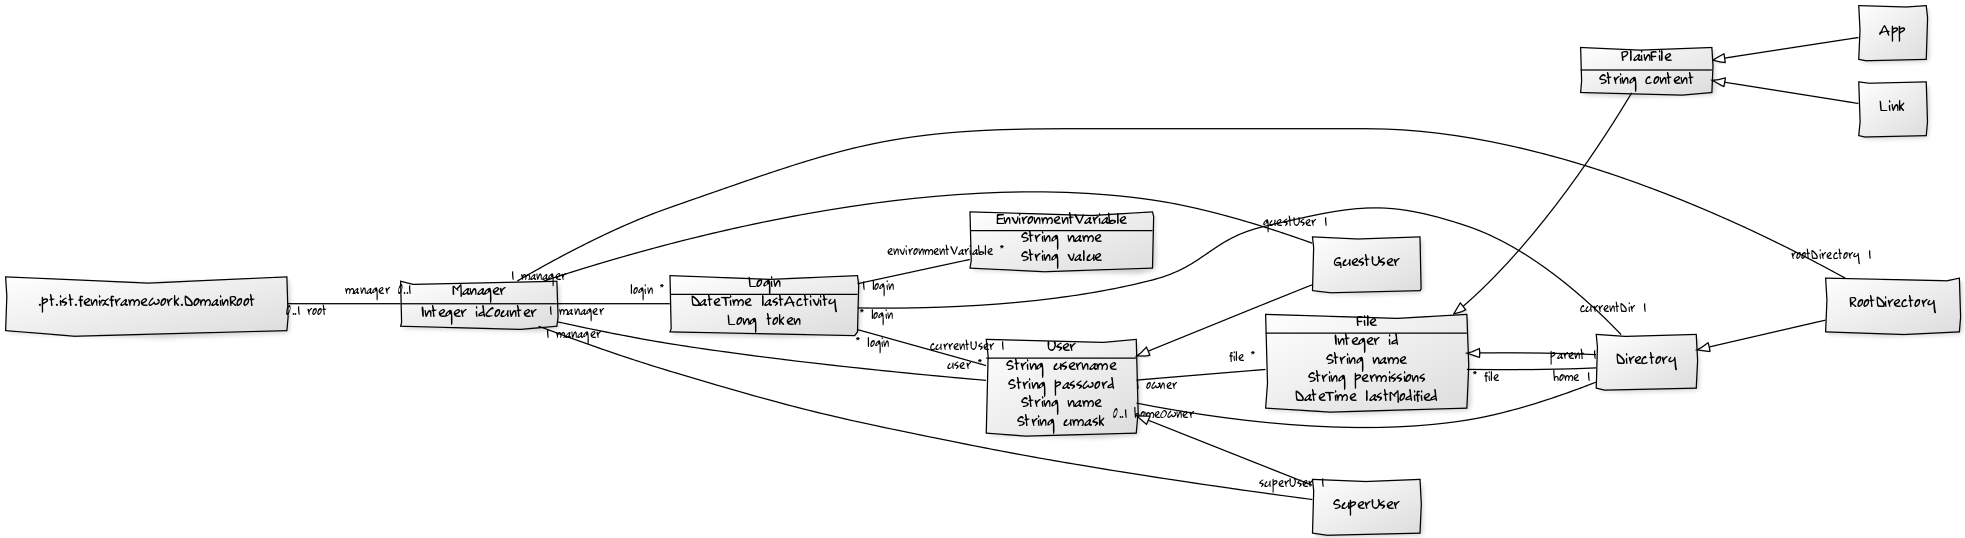
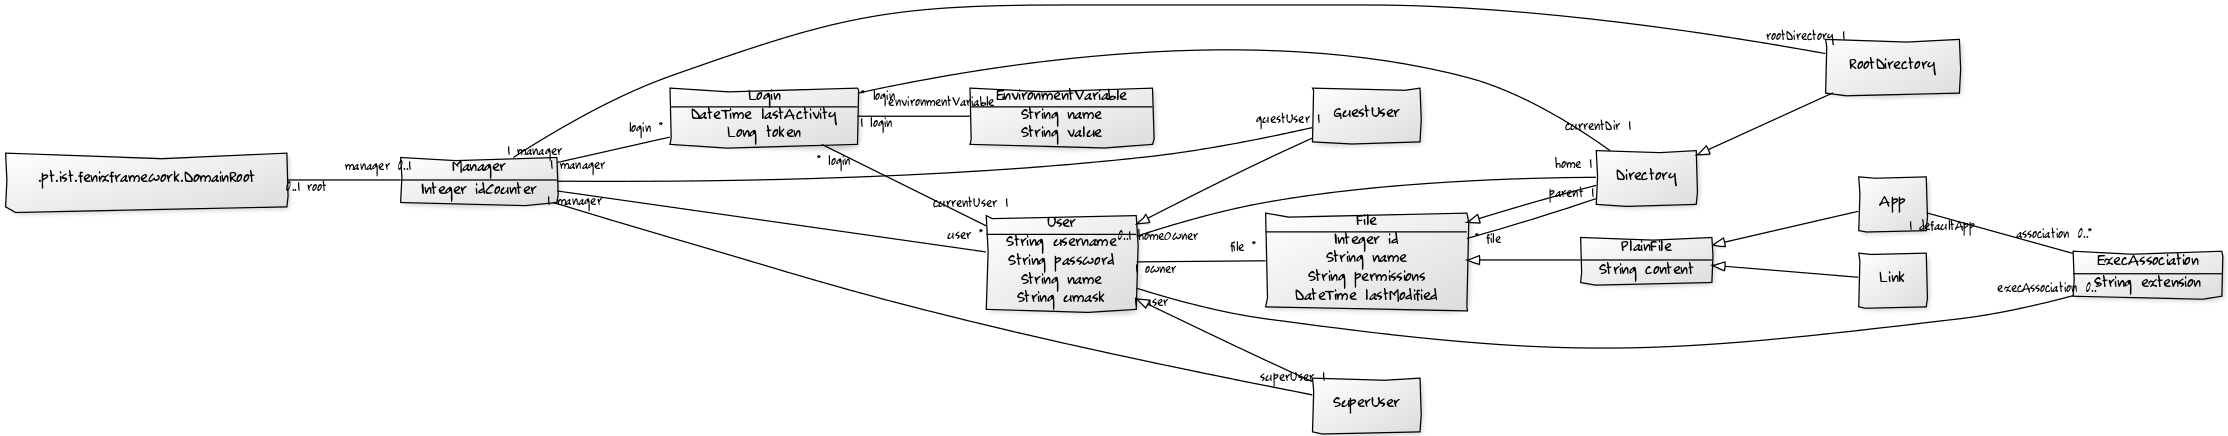
generate ExecAssociation

diff --git a/src/main/java/pt/tecnico/myDrive/domain/ExecAssociation.java b/src/main/java/pt/tecnico/myDrive/domain/ExecAssociation.java
@@ -1,0 +1,9 @@
+package pt.tecnico.myDrive.domain;
+
+public class ExecAssociation extends ExecAssociation_Base {
+    
+    public ExecAssociation() {
+        super();
+    }
+    
+}
